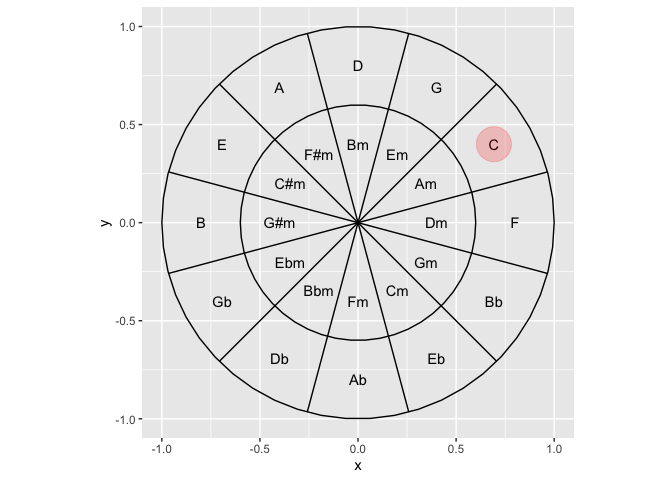
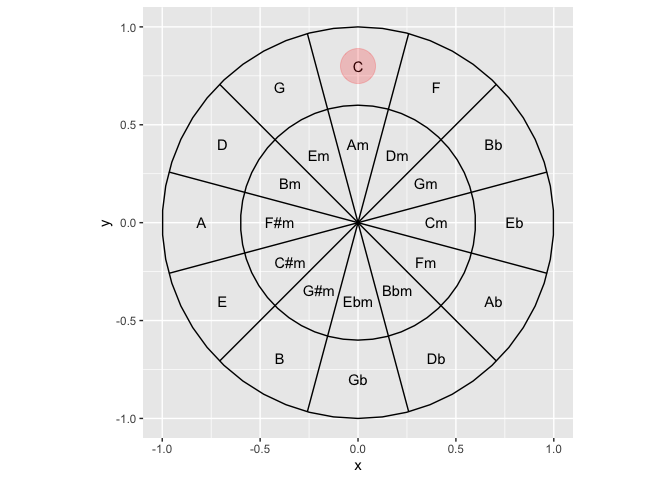
adding rotate

diff --git a/README.md b/README.md
@@ -157,7 +157,7 @@ data.frame(x0 = 0:1, y0 = 0:1, r = 1:2/3) |>
 ![](README_files/figure-gfm/unnamed-chunk-3-1.png)<!-- -->
 
 ``` r
-compute_panel_circle5ths <- function(data, scales, n_vertices = 12, maj = TRUE, key = "C", rotate = 0){
+compute_panel_circle5ths <- function(data, scales, n_vertices = 12, maj = TRUE, key = "C", rotate = 90){
   
   data |> 
     mutate(group = row_number()) |> 
@@ -170,7 +170,7 @@ compute_panel_circle5ths <- function(data, scales, n_vertices = 12, maj = TRUE, 
 }
 
 
-compute_group_spokes_labs <- function(data, scales, maj = T, key = "C", rotate = 0){
+compute_group_spokes_labs <- function(data, scales, maj = T, key = "C", rotate = 90-30){
   
     major = c("C", "G", "D", "A", "E", "B",
             "Gb","Db", "Ab", "Eb", "Bb", "F")
@@ -181,7 +181,7 @@ compute_group_spokes_labs <- function(data, scales, maj = T, key = "C", rotate =
 
   
   compute_panel_circle5ths(data = data, scales = scales, maj = maj, key = key, rotate = rotate) |>
-    slice(-1) |>
+    slice(-nrow(data)) |>
     mutate(major = major) |>
     mutate(minor = minor) |>
     mutate(label = label)
